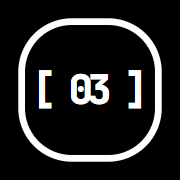
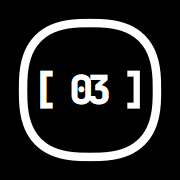
홈 화면 아이콘 상자를 갤럭시 아이콘 모양 그대로: 위아래 선이 고르지 않던 것
- 갤럭시 아이콘 테두리는 둥근 네모가 아니라 초타원(n=2.7, 받은 캡처로 맞춤)이라 상자 위아래 어깨에서
  바깥과의 틈이 좁아졌다 넓어졌다 함 → 상자도 같은 초타원으로 그려 틈이 둘레 어디서나 같게
- 폰이 아이콘을 줄여 그리며 얇은 선이 계단처럼 보여서 선을 2.4→3칸으로 두껍게 (숫자 14.5→14.2)
- 인트로 첫 장면 상자도 같은 초타원에서 시작해 스파인 테두리로 바뀜

diff --git a/index.html b/index.html
@@ -8,7 +8,7 @@
 <link rel="manifest" href="manifest.webmanifest">
 <!-- 아이콘(#39 [ 03 ]): 탭·설치용은 시안 그대로, 아이폰 홈 화면은 검은 바탕을 꽉 채운 것 (모서리는 아이폰이 둥글게 깎음) -->
 <link rel="icon" type="image/png" href="icon-192.png?v=3">
-<link rel="apple-touch-icon" href="apple-touch-icon.png?v=4">
+<link rel="apple-touch-icon" href="apple-touch-icon.png?v=5">
 <meta name="apple-mobile-web-app-capable" content="yes">
 <meta name="apple-mobile-web-app-status-bar-style" content="black-translucent">
 <title>Pebbly Mirror</title>
@@ -19,17 +19,17 @@
 <link rel="stylesheet" href="https://fonts.googleapis.com/css2?family=JetBrains+Mono:wght@400;800&text=0123456789%5B%5D%2F%20ABDEILNPSX&display=block">
 <link rel="stylesheet" href="https://cdn.jsdelivr.net/gh/orioncactus/pretendard@v1.3.9/dist/web/variable/pretendardvariable-dynamic-subset.min.css">
 <!-- ?v=: 기기에 남은 옛 파일을 건너뛰게 하는 판 번호 (파일은 _headers로 매번 새 버전 확인). 스타일: 테마 색 → 기본 → 시계 → 날씨 → 상세 화면 → 시계 강조 → 교통 → 사진 액자 → 달력 → 시계 강조 위젯 → 설정 (순서대로 겹침) -->
-<link rel="stylesheet" href="css/theme.css?v=36">
-<link rel="stylesheet" href="css/base.css?v=36">
-<link rel="stylesheet" href="css/clock.css?v=36">
-<link rel="stylesheet" href="css/weather.css?v=36">
-<link rel="stylesheet" href="css/detail.css?v=36">
-<link rel="stylesheet" href="css/standby.css?v=36">
-<link rel="stylesheet" href="css/transit.css?v=36">
-<link rel="stylesheet" href="css/photo.css?v=36">
-<link rel="stylesheet" href="css/calendar.css?v=36">
-<link rel="stylesheet" href="css/standby-widgets.css?v=36">
-<link rel="stylesheet" href="css/settings.css?v=36">
+<link rel="stylesheet" href="css/theme.css?v=37">
+<link rel="stylesheet" href="css/base.css?v=37">
+<link rel="stylesheet" href="css/clock.css?v=37">
+<link rel="stylesheet" href="css/weather.css?v=37">
+<link rel="stylesheet" href="css/detail.css?v=37">
+<link rel="stylesheet" href="css/standby.css?v=37">
+<link rel="stylesheet" href="css/transit.css?v=37">
+<link rel="stylesheet" href="css/photo.css?v=37">
+<link rel="stylesheet" href="css/calendar.css?v=37">
+<link rel="stylesheet" href="css/standby-widgets.css?v=37">
+<link rel="stylesheet" href="css/settings.css?v=37">
 </head>
 <body class="idle" data-panel="now">
 <!-- 시작 인트로(#39 로고): 안드로이드 시작 화면의 [ 03 ] 상자 그대로 시작 → 상자가 스파인으로 펼쳐지고
@@ -60,13 +60,14 @@
           <text x="216" y="86" class="in-sub">SPINE INDEX // LABS</text>
         </g>
       </g>
-      <!-- 첫 장면: 안드로이드 시작 화면과 같은 [ 03 ] 상자 (icon-maskable.png를 160px로 띄운 크기: 상자 121.5px) -->
-      <rect id="in-box" x="-60.75" y="-60.75" width="121.5" height="121.5" rx="44.5" stroke-width="6"/>
-      <text id="in-03" x="-2.75" y="12.8" class="in-mid" style="font-size:36.25px;letter-spacing:-5.5px" xml:space="preserve">[ 03 ]</text>
+      <!-- 첫 장면: 안드로이드 시작 화면과 같은 [ 03 ] 상자 (icon-maskable.png를 160px로 띄운 크기: 상자 119px).
+           상자는 갤럭시 아이콘 테두리와 같은 초타원(n=2.7) — intro.js가 이 모양에서 스파인 테두리로 바꿔 감 -->
+      <path id="in-box" d="M59.5 0L59.3 10.6L58.7 17.7L57.6 23.8L56.1 29.2L54.2 34.1L51.9 38.5L49.2 42.5L46 46L42.5 49.2L38.5 51.9L34.1 54.2L29.2 56.1L23.8 57.6L17.7 58.7L10.6 59.3L0 59.5L-10.6 59.3L-17.7 58.7L-23.8 57.6L-29.2 56.1L-34.1 54.2L-38.5 51.9L-42.5 49.2L-46 46L-49.2 42.5L-51.9 38.5L-54.2 34.1L-56.1 29.2L-57.6 23.8L-58.7 17.7L-59.3 10.6L-59.5 0L-59.3 -10.6L-58.7 -17.7L-57.6 -23.8L-56.1 -29.2L-54.2 -34.1L-51.9 -38.5L-49.2 -42.5L-46 -46L-42.5 -49.2L-38.5 -51.9L-34.1 -54.2L-29.2 -56.1L-23.8 -57.6L-17.7 -58.7L-10.6 -59.3L0 -59.5L10.6 -59.3L17.7 -58.7L23.8 -57.6L29.2 -56.1L34.1 -54.2L38.5 -51.9L42.5 -49.2L46 -46L49.2 -42.5L51.9 -38.5L54.2 -34.1L56.1 -29.2L57.6 -23.8L58.7 -17.7L59.3 -10.6Z" stroke-width="7.5"/>
+      <text id="in-03" x="-2.75" y="12.53" class="in-mid" style="font-size:35.5px;letter-spacing:-5.5px" xml:space="preserve">[ 03 ]</text>
     </svg>
   </svg>
 </div>
-<script src="js/intro.js?v=36"></script>
+<script src="js/intro.js?v=37"></script>
 <main id="stage" class="stage">
   <header class="head">
     <div class="brand">
@@ -347,16 +348,16 @@
 </div>
 
 <!-- 스크립트: 순서대로 실행 (앞 파일의 값·함수를 뒤 파일이 씀). 시작은 main.js -->
-<script src="js/core.js?v=36"></script>
-<script src="js/sync.js?v=36"></script>
-<script src="js/clock.js?v=36"></script>
-<script src="js/weather.js?v=36"></script>
-<script src="js/screen.js?v=36"></script>
-<script src="js/clock-modes.js?v=36"></script>
-<script src="js/settings.js?v=36"></script>
-<script src="js/transit.js?v=36"></script>
-<script src="js/photo.js?v=36"></script>
-<script src="js/calendar.js?v=36"></script>
-<script src="js/main.js?v=36"></script>
+<script src="js/core.js?v=37"></script>
+<script src="js/sync.js?v=37"></script>
+<script src="js/clock.js?v=37"></script>
+<script src="js/weather.js?v=37"></script>
+<script src="js/screen.js?v=37"></script>
+<script src="js/clock-modes.js?v=37"></script>
+<script src="js/settings.js?v=37"></script>
+<script src="js/transit.js?v=37"></script>
+<script src="js/photo.js?v=37"></script>
+<script src="js/calendar.js?v=37"></script>
+<script src="js/main.js?v=37"></script>
 </body>
 </html>

diff --git a/js/intro.js b/js/intro.js
@@ -33,16 +33,24 @@
     lock.setAttribute('transform', `translate(${-W / 2} ${-W / 6}) scale(${k})`);
   }
   // 상자 → 스파인. 시작 값은 index.html의 첫 장면, 끝 값은 로고의 스파인 테두리·가운데 칸 (로고 가운데 = 180, 60)
-  const A = { x: -60.75, y: -60.75, w: 121.5, h: 121.5, r: 44.5, sw: 6, tx: -2.75, ty: 12.8, fs: 36.25, ls: -5.5 };
+  // 상자는 초타원 |x/a|^n + |y/b|^n = 1: 갤럭시 아이콘 모양(n=2.7)에서 거의 네모(n=16)로. x, y는 상자 가운데
+  const sq = (cx, cy, a, b, n) => {
+    let d = '';
+    for (let i = 0; i < 64; i++) {
+      const t = i / 32 * Math.PI, c = Math.cos(t), s = Math.sin(t);
+      d += (i ? 'L' : 'M') + (cx + a * Math.sign(c) * Math.abs(c) ** (2 / n)).toFixed(1) + ' ' + (cy + b * Math.sign(s) * Math.abs(s) ** (2 / n)).toFixed(1);
+    }
+    return d + 'Z';
+  };
+  const A = { x: 0, y: 0, a: 59.5, b: 59.5, n: 2.7, sw: 7.5, tx: -2.75, ty: 12.53, fs: 35.5, ls: -5.5 };
   const ease = t => t < .5 ? 4 * t * t * t : 1 - Math.pow(-2 * t + 2, 3) / 2;
   const part = (a, b) => Math.max(0, Math.min(1, (p - a) / (b - a)));
   function frame() {
-    const B = { x: (20 - 180) * k, y: (18 - 60) * k, w: 56 * k, h: 84 * k, r: 0, sw: 2.8 * k,
+    const B = { x: (48 - 180) * k, y: 0, a: 28 * k, b: 42 * k, n: 16, sw: 2.8 * k,
                 tx: (48 - 180) * k, ty: (64 - 60) * k, fs: 12.5 * k, ls: 0 };
     const e = ease(Math.min(1, p)), v = key => A[key] + (B[key] - A[key]) * e;
-    box.setAttribute('x', v('x')); box.setAttribute('y', v('y'));
-    box.setAttribute('width', v('w')); box.setAttribute('height', v('h'));
-    box.setAttribute('rx', v('r')); box.setAttribute('stroke-width', v('sw'));
+    box.setAttribute('d', sq(v('x'), v('y'), v('a'), v('b'), v('n')));
+    box.setAttribute('stroke-width', v('sw'));
     box.style.opacity = 1 - part(.6, 1);                                         // 끝 무렵 옆선이 사라지고
     q('.in-bars').style.opacity = part(.55, 1);                                  // 위아래 막대만 남음
     el.querySelectorAll('.in-late').forEach(n => { n.style.opacity = part(.45, 1); });   // 점선·꺾쇠
